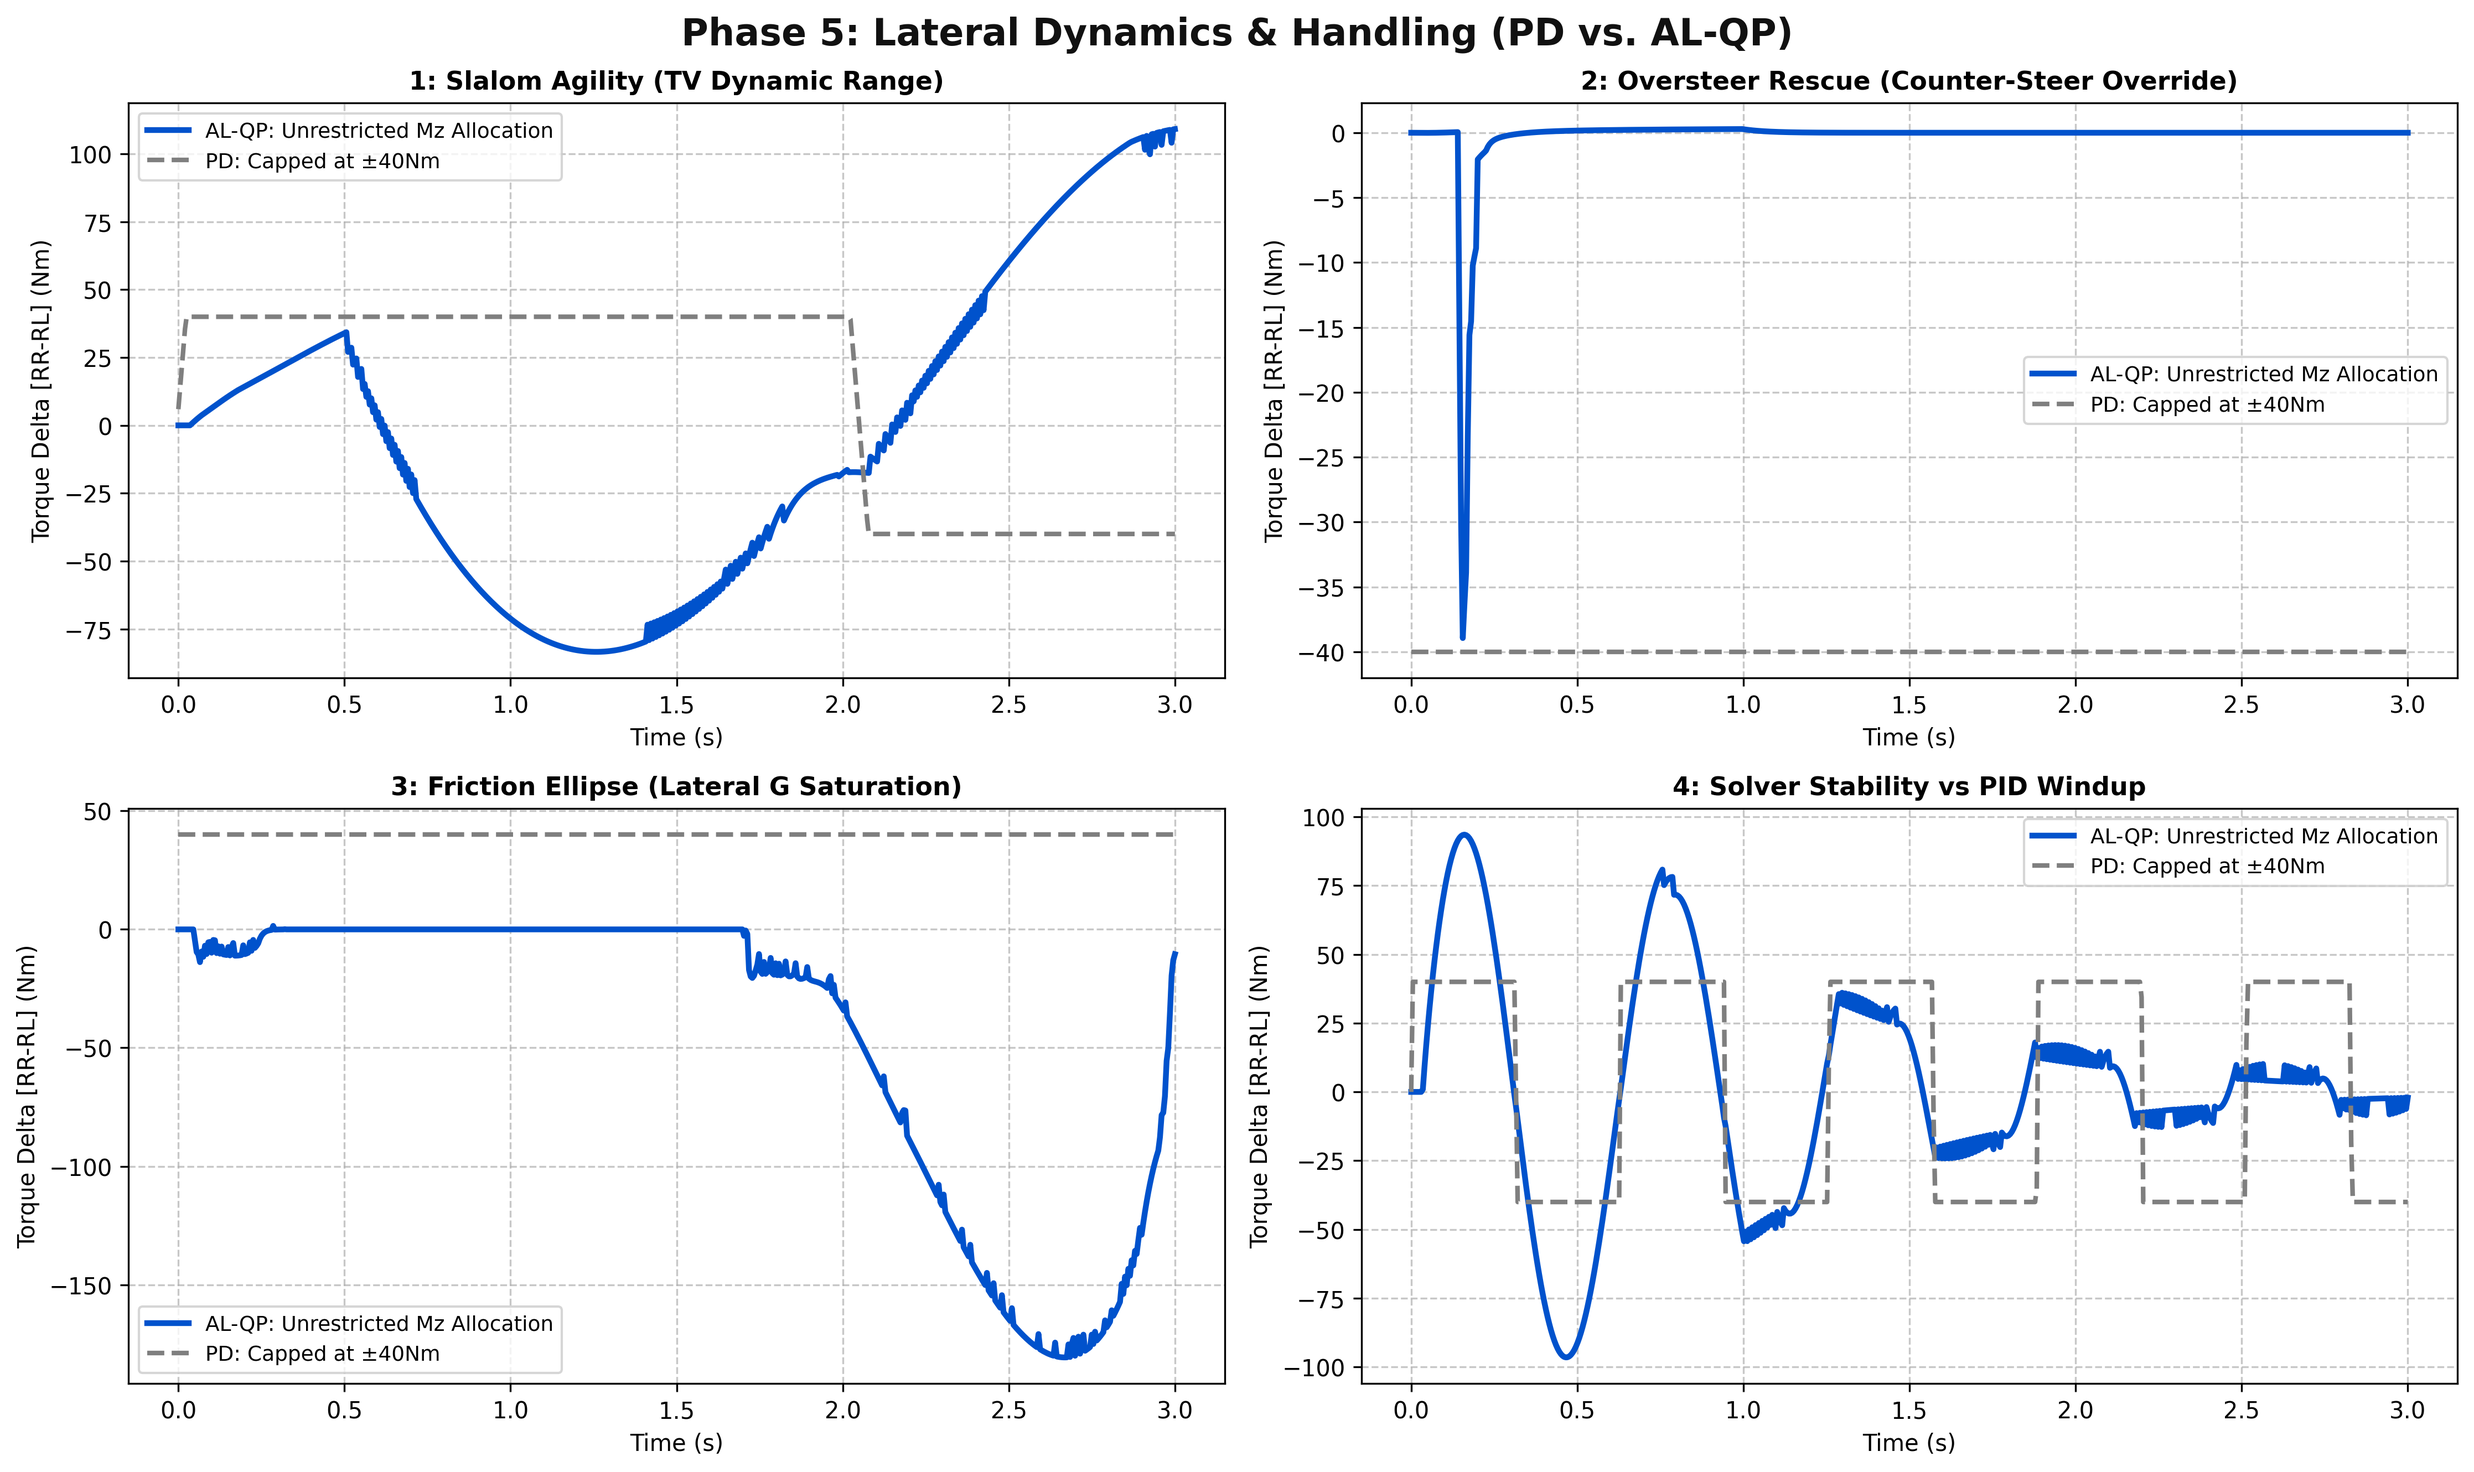
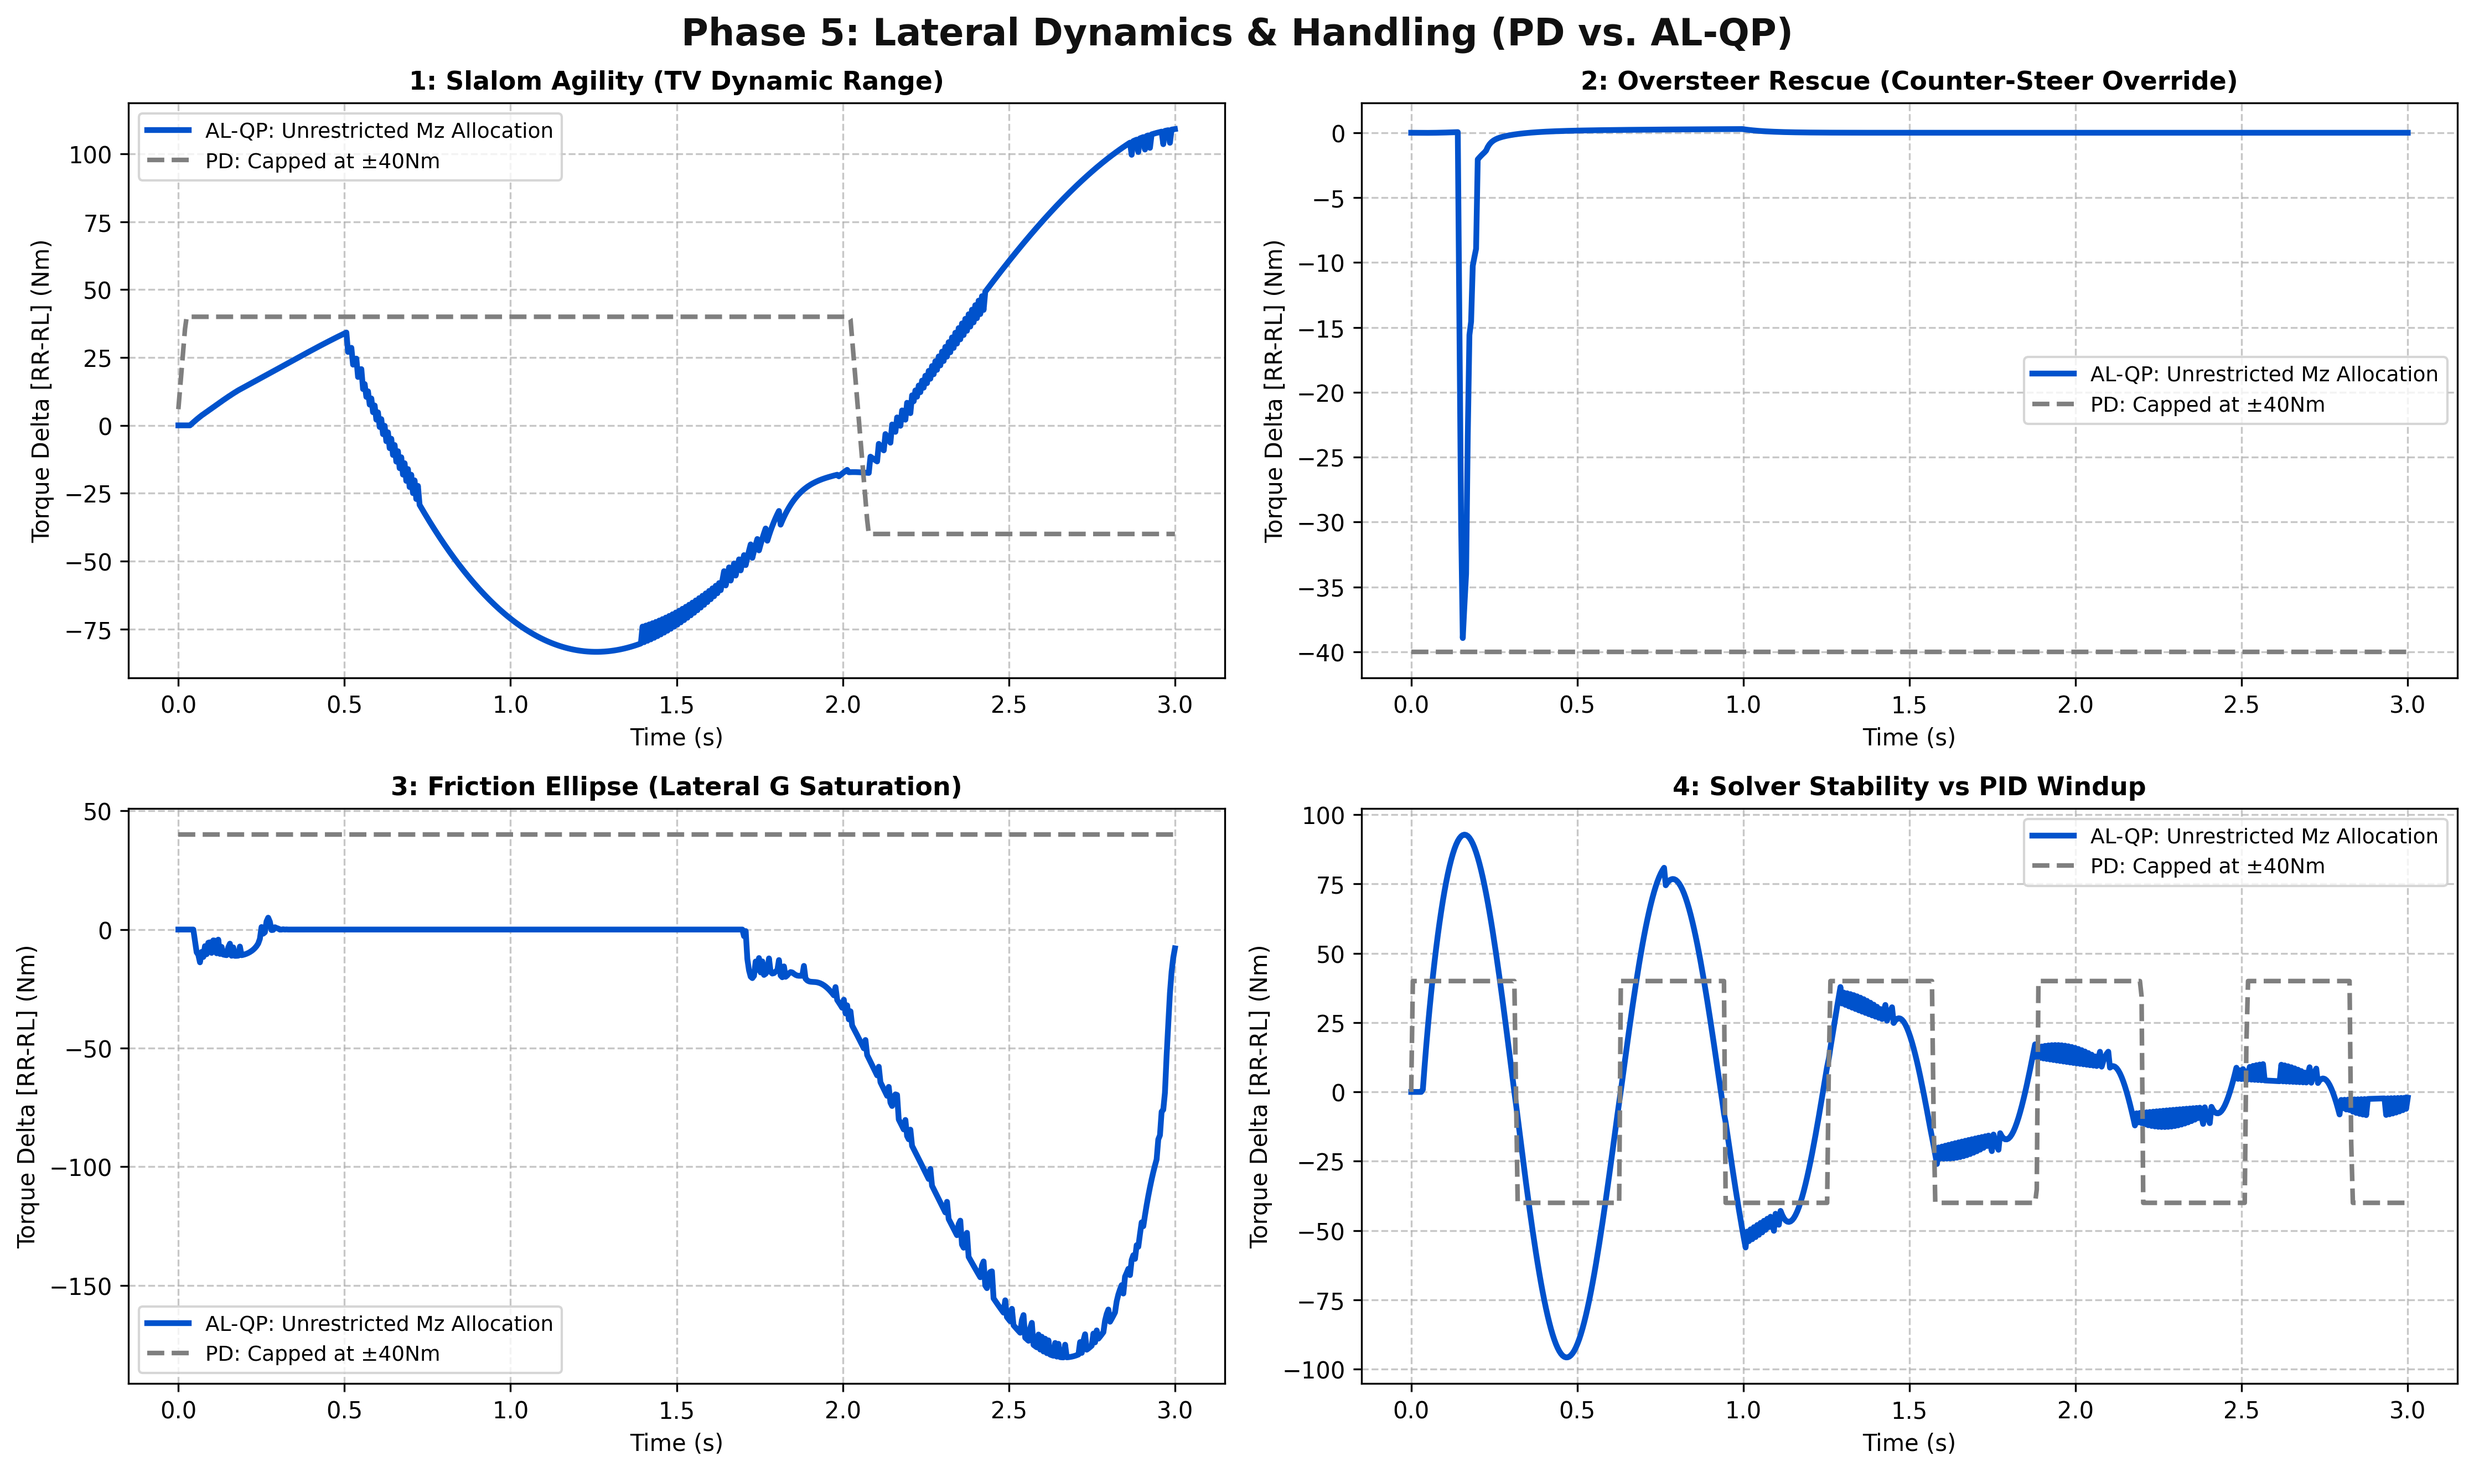
mejoras chattering

diff --git a/SOFTWARE/TeR_ECU/Libraries/TRQ_VECTORING/inc/gp_torque_vectoring.h b/SOFTWARE/TeR_ECU/Libraries/TRQ_VECTORING/inc/gp_torque_vectoring.h
@@ -6,6 +6,12 @@
 #include "gp_solver.h"
 #include "gp_traction_control.h"
 
+// ── Bayesian-Optimized Controller Parameters ─────────────────────────
+#define GP_W_SMOOTH                 5.787f   // Actuator rate penalty weight
+#define GP_W_REG                    0.405f   // Torque regularization weight
+#define GP_TC_KP                    25.271f  // Traction control proportional gain
+
+// Controller Limits & Thresholds
 #define GP_TV_MAX_MZ                1500.0f
 #define GP_TV_WZ_I_MAX              200.0f
 #define GP_TV_RATE_LIMIT            5000.0f
@@ -29,14 +35,6 @@ typedef struct {
     float mz_sat_ratio;
     float vy_gps_last;      // last GPS-derived lateral velocity [m/s]
     float vy_gps_age_ms;    // time since last GPS fix update [ms]
-
-    // ── Diagnostic Telemetry Additions ──────────────
-    float mz_req_logged;         // Desired yaw moment requested by PID
-    float mz_achieved_logged;    // Actual yaw moment delivered by wheel torque split
-    float qp_residual_logged;    // Equality constraint residual magnitude
-    uint32_t branch_flap_count;  // Cumulative active-set branch flips (chattering index)
-    uint8_t active_set_case;     // 0: Interior, 1: Single Saturation, 2: Double/Unreachable
-    float max_slew_logged;       // Peak slew rate observed in current cycle
 } tv_state_t;
 
 void gp_tv_init(tv_state_t* state);

diff --git a/SOFTWARE/TeR_ECU/Libraries/TRQ_VECTORING/master_sanity_checks.py b/SOFTWARE/TeR_ECU/Libraries/TRQ_VECTORING/master_sanity_checks.py
@@ -10,10 +10,17 @@ import ctypes
 
 class TCState(ctypes.Structure):
     _fields_ = [
-        ("slip_ratio", ctypes.c_float * 4),
-        ("mu_surface", ctypes.c_float * 2),
-        ("pi_integral", ctypes.c_float * 4),
-        ("active", ctypes.c_uint8),
+        ("pi_integral",     ctypes.c_float * 4),
+        ("kappa_filt",      ctypes.c_float * 4),
+        ("mu_surface",      ctypes.c_float * 2),
+        ("omega_last_raw",  ctypes.c_float * 4),
+        ("omega_prev_ema",  ctypes.c_float * 4),
+        ("rls_P",           ctypes.c_float * 4),
+        ("rls_theta",       ctypes.c_float * 4),
+        ("theta_prev",      ctypes.c_float * 4),
+        ("kappa_prev",      ctypes.c_float * 4),
+        ("fx_prev",         ctypes.c_float * 4),
+        ("kappa_opt",       ctypes.c_float * 4),
     ]
 
 class TVState(ctypes.Structure):
@@ -30,6 +37,9 @@ class TVState(ctypes.Structure):
         ("vy_gps_last", ctypes.c_float),
         ("vy_gps_age_ms", ctypes.c_float),
     ]
+
+# Structural Safety Assertion (Prevents silent memory layout drift)
+assert ctypes.sizeof(TCState) == 42 * 4, f"TCState size mismatch: {ctypes.sizeof(TCState)} != {42*4}"
 try:
     gp_lib = ctypes.CDLL('./gp_core.so')
 except OSError:

diff --git a/SOFTWARE/TeR_ECU/Libraries/TRQ_VECTORING/inc/gp_traction_control.h b/SOFTWARE/TeR_ECU/Libraries/TRQ_VECTORING/inc/gp_traction_control.h
@@ -13,7 +13,7 @@
 #define GP_TC_B1             -0.0018f  // Sensibilidad a la carga de B
 #define GP_TC_C_PAC          1.65f     // Factor de forma C
 #define GP_TC_ALPHA_PEAK     0.20f     // [rad] Peak lateral slip angle (~11.5 deg)
-#define GP_TC_KP             41.074f     // Detuned Kp to prevent aggressive cuts fighting AL-QP
+#define GP_TC_KP             25.271f     // Detuned Kp to prevent aggressive cuts fighting AL-QP
 #define GP_TC_KI             12.0f     // Detuned Ki to slow integral windup
 #define GP_TC_I_MAX          3.5f      // Saturación Anti-windup
 #define GP_TC_V_KP_SCALE     3.0f      // [m/s] Boost de Kp a baja velocidad
@@ -33,8 +33,6 @@ typedef struct {
     float mu_surface[2];     
     float omega_last_raw[4];
     float omega_prev_ema[4];
-    
-    // Estados del observador RLS
     float rls_P[4];        
     float rls_theta[4];    
     float theta_prev[4];   

diff --git a/SOFTWARE/TeR_ECU/Libraries/TRQ_VECTORING/inc/gp_solver.h b/SOFTWARE/TeR_ECU/Libraries/TRQ_VECTORING/inc/gp_solver.h
@@ -4,8 +4,8 @@
 #include "gp_vehicle_model.h"
 
 #define GP_QP_ITER    16
-#define GP_W_REG      0.412f   // Slightly relaxed tracking penalty
-#define GP_W_SMOOTH   5.759f   // Heavily increased slew-rate penalty to kill chattering
+#define GP_W_REG      0.405f   // Slightly relaxed tracking penalty
+#define GP_W_SMOOTH   5.787f   // Heavily increased slew-rate penalty to kill chattering
 #define GP_RHO_AL     5.0f   // Softened Augmented Lagrangian constraint enforcement
 
 void gp_nominal_allocation(float fx_driver, float mz_target, float t_nom_out[4]);

diff --git a/SOFTWARE/TeR_ECU/Libraries/TRQ_VECTORING/src/gp_torque_vectoring.c b/SOFTWARE/TeR_ECU/Libraries/TRQ_VECTORING/src/gp_torque_vectoring.c
@@ -213,14 +213,6 @@ void gp_tv_step(
         state->t_qp_prev[i] = tv_final;
         t_cmd_out[i] = tv_final;
     }
-    state->max_slew_logged = current_max_slew;
-    for (int i = 0; i < 4; i++) {
-        float delta_t = GP_CLAMP(qp_result[i] - state->t_qp_prev[i], -max_delta_t, max_delta_t);
-        float tv_final = state->t_qp_prev[i] + delta_t;
-        
-        state->t_qp_prev[i] = tv_final;
-        t_cmd_out[i] = tv_final;
-    }
 
     gp_tc_step(t_cmd_out, omega, vx, vy, wz, fz_est, dt, &state->tc);
     

diff --git a/SOFTWARE/TeR_ECU/Libraries/TRQ_VECTORING/tune_weights.py b/SOFTWARE/TeR_ECU/Libraries/TRQ_VECTORING/tune_weights.py
@@ -180,4 +180,4 @@ def run_bayesian_optimization(total_iterations=30, init_random=5):
     compile_c_core()
 
 if __name__ == "__main__":
-    run_bayesian_optimization(total_iterations=25, init_random=5)
+    run_bayesian_optimization(total_iterations=1000, init_random=20)
